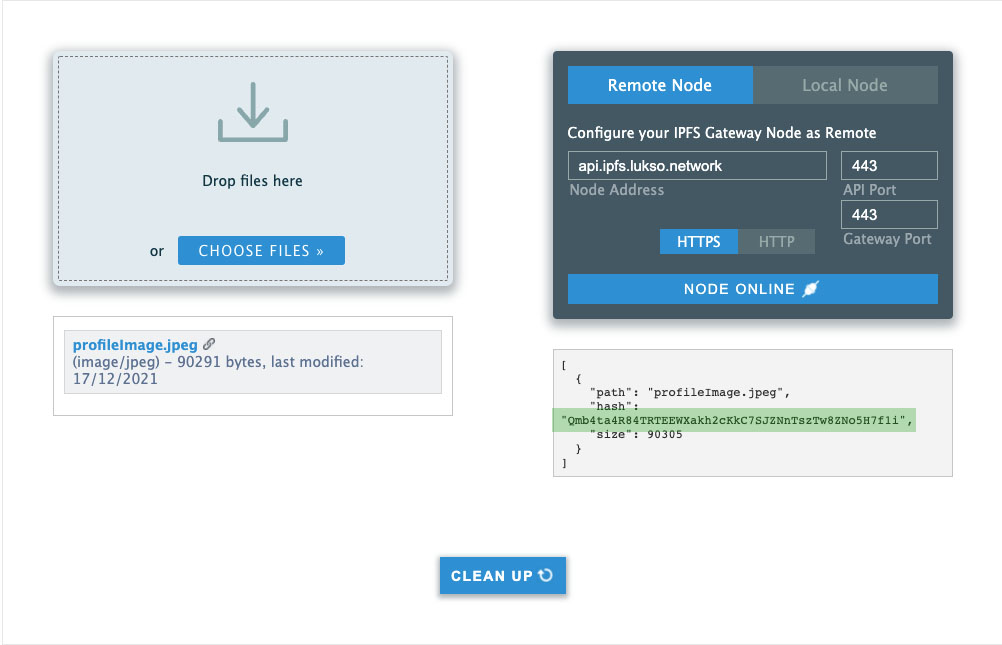
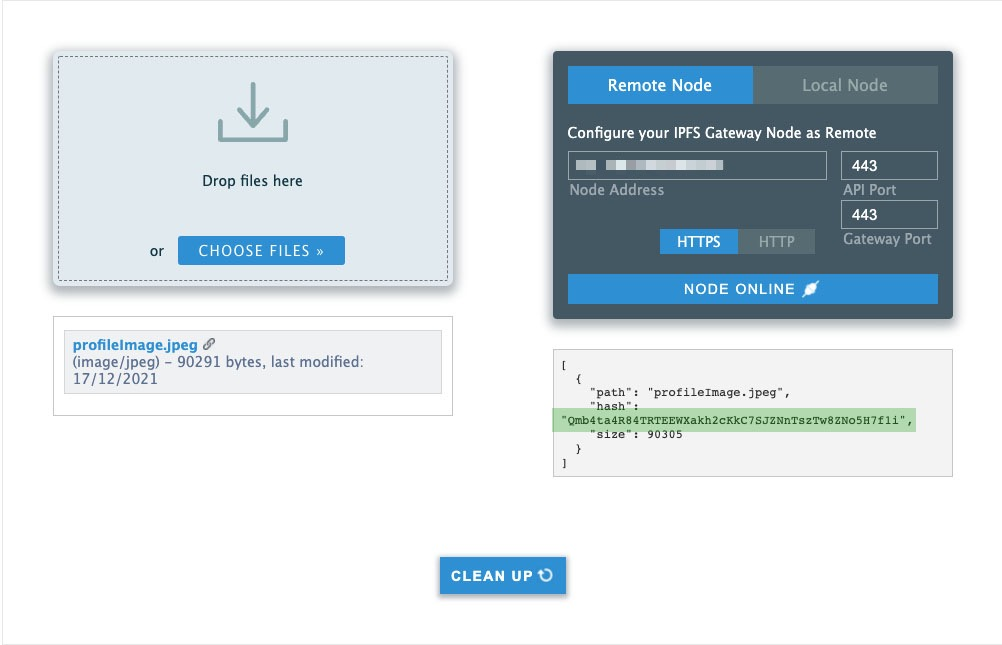
Fix IPFS url and adjust images

diff --git a/docs/guides/universal-profile/edit-profile.md b/docs/guides/universal-profile/edit-profile.md
@@ -153,7 +153,7 @@ For the properties `profileImage` and `backgroundImage`, we will need to add the
 
 Use this [IPFS file uploader tool](https://anarkrypto.github.io/upload-files-to-ipfs-from-browser-panel/public/#) with the settings shown below in green.
 
-- Node Address: `api.ipfs.lukso.network`
+- Node Address: `api.2eff.lukso.dev`
 - API Port / Gateway Port: `443`
 
 ![ipfs LUKSO settings](./img/ipfs-lukso-settings.jpg)
